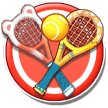
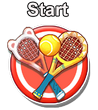
Added caption to launch button

diff --git a/src/FormMain.Designer.cs b/src/FormMain.Designer.cs
@@ -176,7 +176,7 @@ namespace FT_Launcher
             this.labelLanguage.AutoSize = true;
             this.labelLanguage.Location = new System.Drawing.Point(259, 116);
             this.labelLanguage.Name = "labelLanguage";
-            this.labelLanguage.Size = new System.Drawing.Size(173, 17);
+            this.labelLanguage.Size = new System.Drawing.Size(131, 13);
             this.labelLanguage.TabIndex = 5;
             this.labelLanguage.Text = "Select the audio language";
             // 
@@ -213,7 +213,7 @@ namespace FT_Launcher
             this.radioButtonUpdateUrl3.AutoSize = true;
             this.radioButtonUpdateUrl3.Location = new System.Drawing.Point(274, 297);
             this.radioButtonUpdateUrl3.Name = "radioButtonUpdateUrl3";
-            this.radioButtonUpdateUrl3.Size = new System.Drawing.Size(149, 21);
+            this.radioButtonUpdateUrl3.Size = new System.Drawing.Size(116, 17);
             this.radioButtonUpdateUrl3.TabIndex = 2;
             this.radioButtonUpdateUrl3.TabStop = true;
             this.radioButtonUpdateUrl3.Text = "Download Server 3";
@@ -225,7 +225,7 @@ namespace FT_Launcher
             this.radioButtonUpdateUrl5.AutoSize = true;
             this.radioButtonUpdateUrl5.Location = new System.Drawing.Point(274, 343);
             this.radioButtonUpdateUrl5.Name = "radioButtonUpdateUrl5";
-            this.radioButtonUpdateUrl5.Size = new System.Drawing.Size(149, 21);
+            this.radioButtonUpdateUrl5.Size = new System.Drawing.Size(116, 17);
             this.radioButtonUpdateUrl5.TabIndex = 4;
             this.radioButtonUpdateUrl5.TabStop = true;
             this.radioButtonUpdateUrl5.Text = "Download Server 5";
@@ -237,7 +237,7 @@ namespace FT_Launcher
             this.radioButtonUpdateUrl4.AutoSize = true;
             this.radioButtonUpdateUrl4.Location = new System.Drawing.Point(274, 320);
             this.radioButtonUpdateUrl4.Name = "radioButtonUpdateUrl4";
-            this.radioButtonUpdateUrl4.Size = new System.Drawing.Size(149, 21);
+            this.radioButtonUpdateUrl4.Size = new System.Drawing.Size(116, 17);
             this.radioButtonUpdateUrl4.TabIndex = 3;
             this.radioButtonUpdateUrl4.TabStop = true;
             this.radioButtonUpdateUrl4.Text = "Download Server 4";
@@ -302,7 +302,7 @@ namespace FT_Launcher
             // 
             this.btn_discord.BackColor = System.Drawing.Color.Transparent;
             this.btn_discord.Image = global::FT_Launcher.Properties.Resources.btn_discord;
-            this.btn_discord.Location = new System.Drawing.Point(628, 540);
+            this.btn_discord.Location = new System.Drawing.Point(618, 540);
             this.btn_discord.Name = "btn_discord";
             this.btn_discord.Size = new System.Drawing.Size(66, 92);
             this.btn_discord.TabIndex = 18;
@@ -317,7 +317,7 @@ namespace FT_Launcher
             // 
             this.btn_register.BackColor = System.Drawing.Color.Transparent;
             this.btn_register.Image = global::FT_Launcher.Properties.Resources.btn_register;
-            this.btn_register.Location = new System.Drawing.Point(551, 540);
+            this.btn_register.Location = new System.Drawing.Point(541, 540);
             this.btn_register.Name = "btn_register";
             this.btn_register.Size = new System.Drawing.Size(66, 92);
             this.btn_register.TabIndex = 17;
@@ -332,7 +332,7 @@ namespace FT_Launcher
             // 
             this.btn_log.BackColor = System.Drawing.Color.Transparent;
             this.btn_log.Image = global::FT_Launcher.Properties.Resources.btn_log;
-            this.btn_log.Location = new System.Drawing.Point(264, 540);
+            this.btn_log.Location = new System.Drawing.Point(274, 540);
             this.btn_log.Name = "btn_log";
             this.btn_log.Size = new System.Drawing.Size(66, 92);
             this.btn_log.TabIndex = 16;
@@ -347,7 +347,7 @@ namespace FT_Launcher
             // 
             this.btn_news.BackColor = System.Drawing.Color.Transparent;
             this.btn_news.Image = global::FT_Launcher.Properties.Resources.btn_news;
-            this.btn_news.Location = new System.Drawing.Point(182, 540);
+            this.btn_news.Location = new System.Drawing.Point(192, 540);
             this.btn_news.Name = "btn_news";
             this.btn_news.Size = new System.Drawing.Size(66, 92);
             this.btn_news.TabIndex = 15;
@@ -362,7 +362,7 @@ namespace FT_Launcher
             // 
             this.btn_settings.BackColor = System.Drawing.Color.Transparent;
             this.btn_settings.Image = global::FT_Launcher.Properties.Resources.btn_settings;
-            this.btn_settings.Location = new System.Drawing.Point(344, 540);
+            this.btn_settings.Location = new System.Drawing.Point(354, 540);
             this.btn_settings.Name = "btn_settings";
             this.btn_settings.Size = new System.Drawing.Size(66, 92);
             this.btn_settings.TabIndex = 13;
@@ -377,9 +377,9 @@ namespace FT_Launcher
             // 
             this.btn_launch.BackColor = System.Drawing.Color.Transparent;
             this.btn_launch.Image = global::FT_Launcher.Properties.Resources.btn_launch;
-            this.btn_launch.Location = new System.Drawing.Point(427, 525);
+            this.btn_launch.Location = new System.Drawing.Point(432, 525);
             this.btn_launch.Name = "btn_launch";
-            this.btn_launch.Size = new System.Drawing.Size(108, 108);
+            this.btn_launch.Size = new System.Drawing.Size(98, 110);
             this.btn_launch.TabIndex = 12;
             this.btn_launch.TabStop = false;
             this.btn_launch.EnabledChanged += new System.EventHandler(this.imgBtn_EnabledChanged);
@@ -403,7 +403,7 @@ namespace FT_Launcher
             // 
             this.btn_exit.BackColor = System.Drawing.Color.Transparent;
             this.btn_exit.Image = global::FT_Launcher.Properties.Resources.btn_exit;
-            this.btn_exit.Location = new System.Drawing.Point(708, 540);
+            this.btn_exit.Location = new System.Drawing.Point(698, 540);
             this.btn_exit.Name = "btn_exit";
             this.btn_exit.Size = new System.Drawing.Size(66, 92);
             this.btn_exit.TabIndex = 23;
